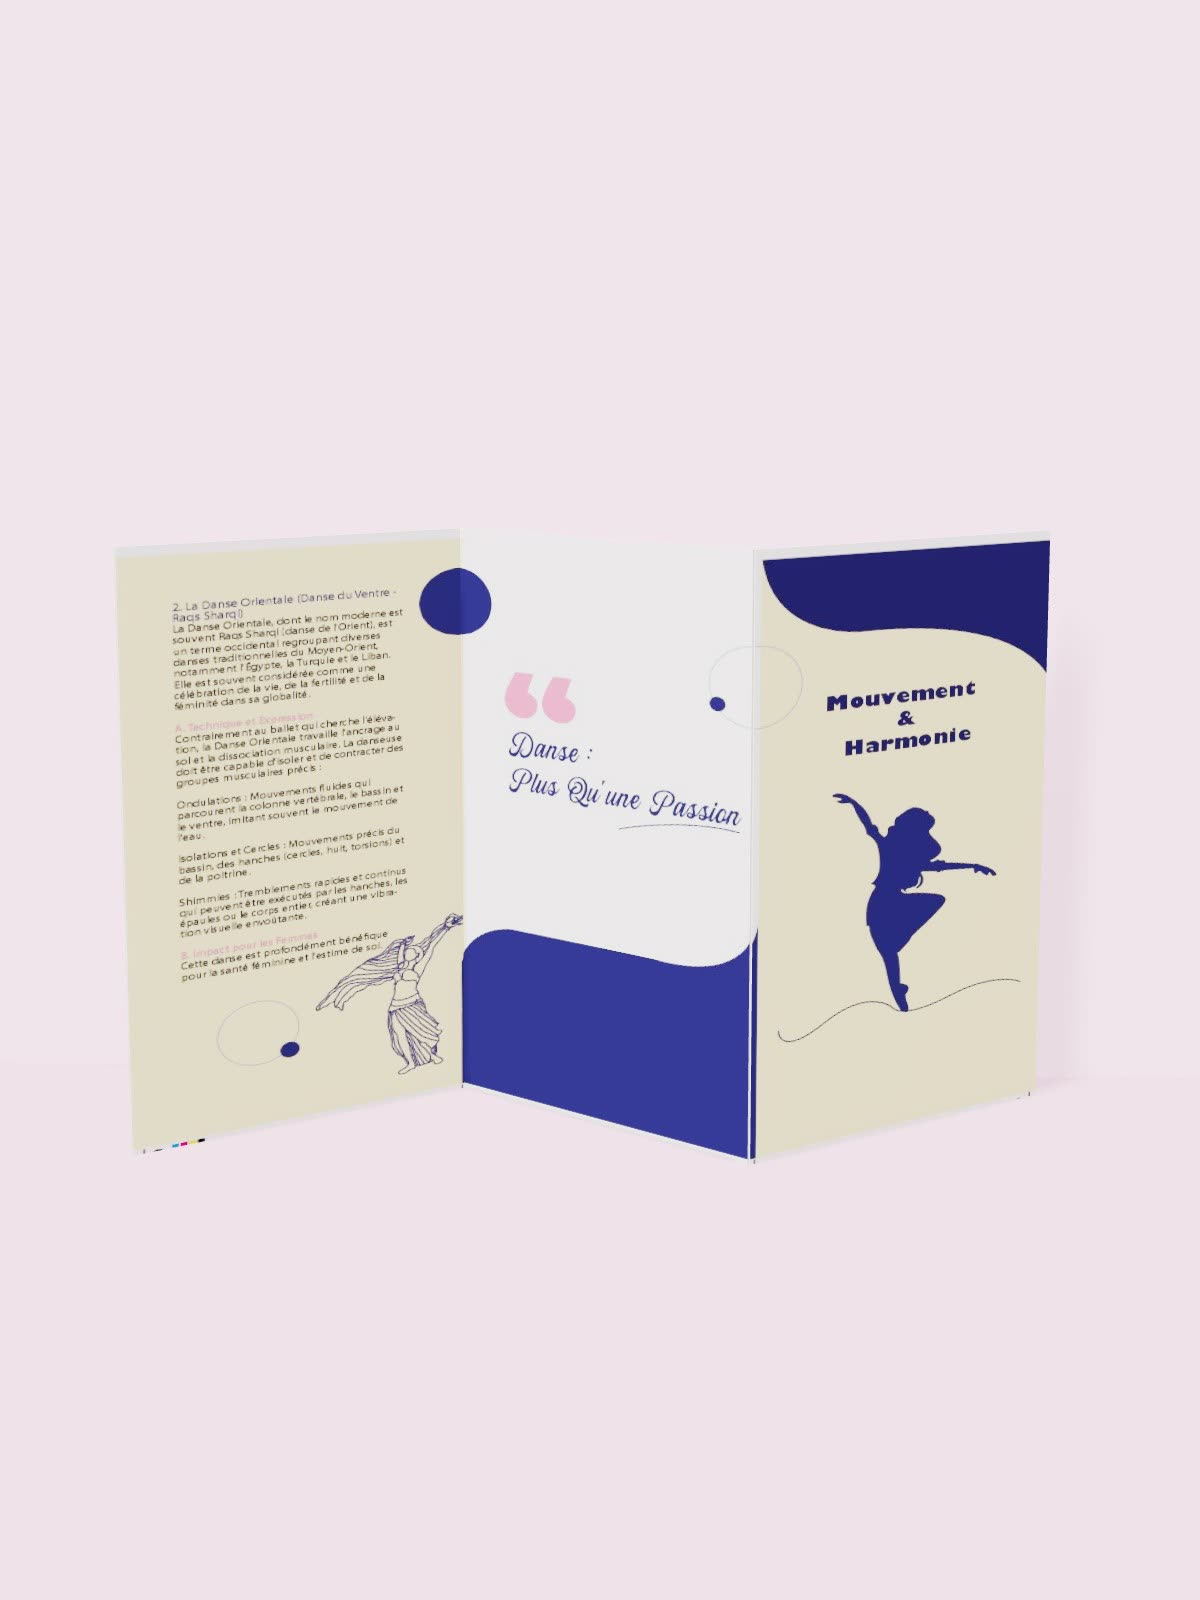
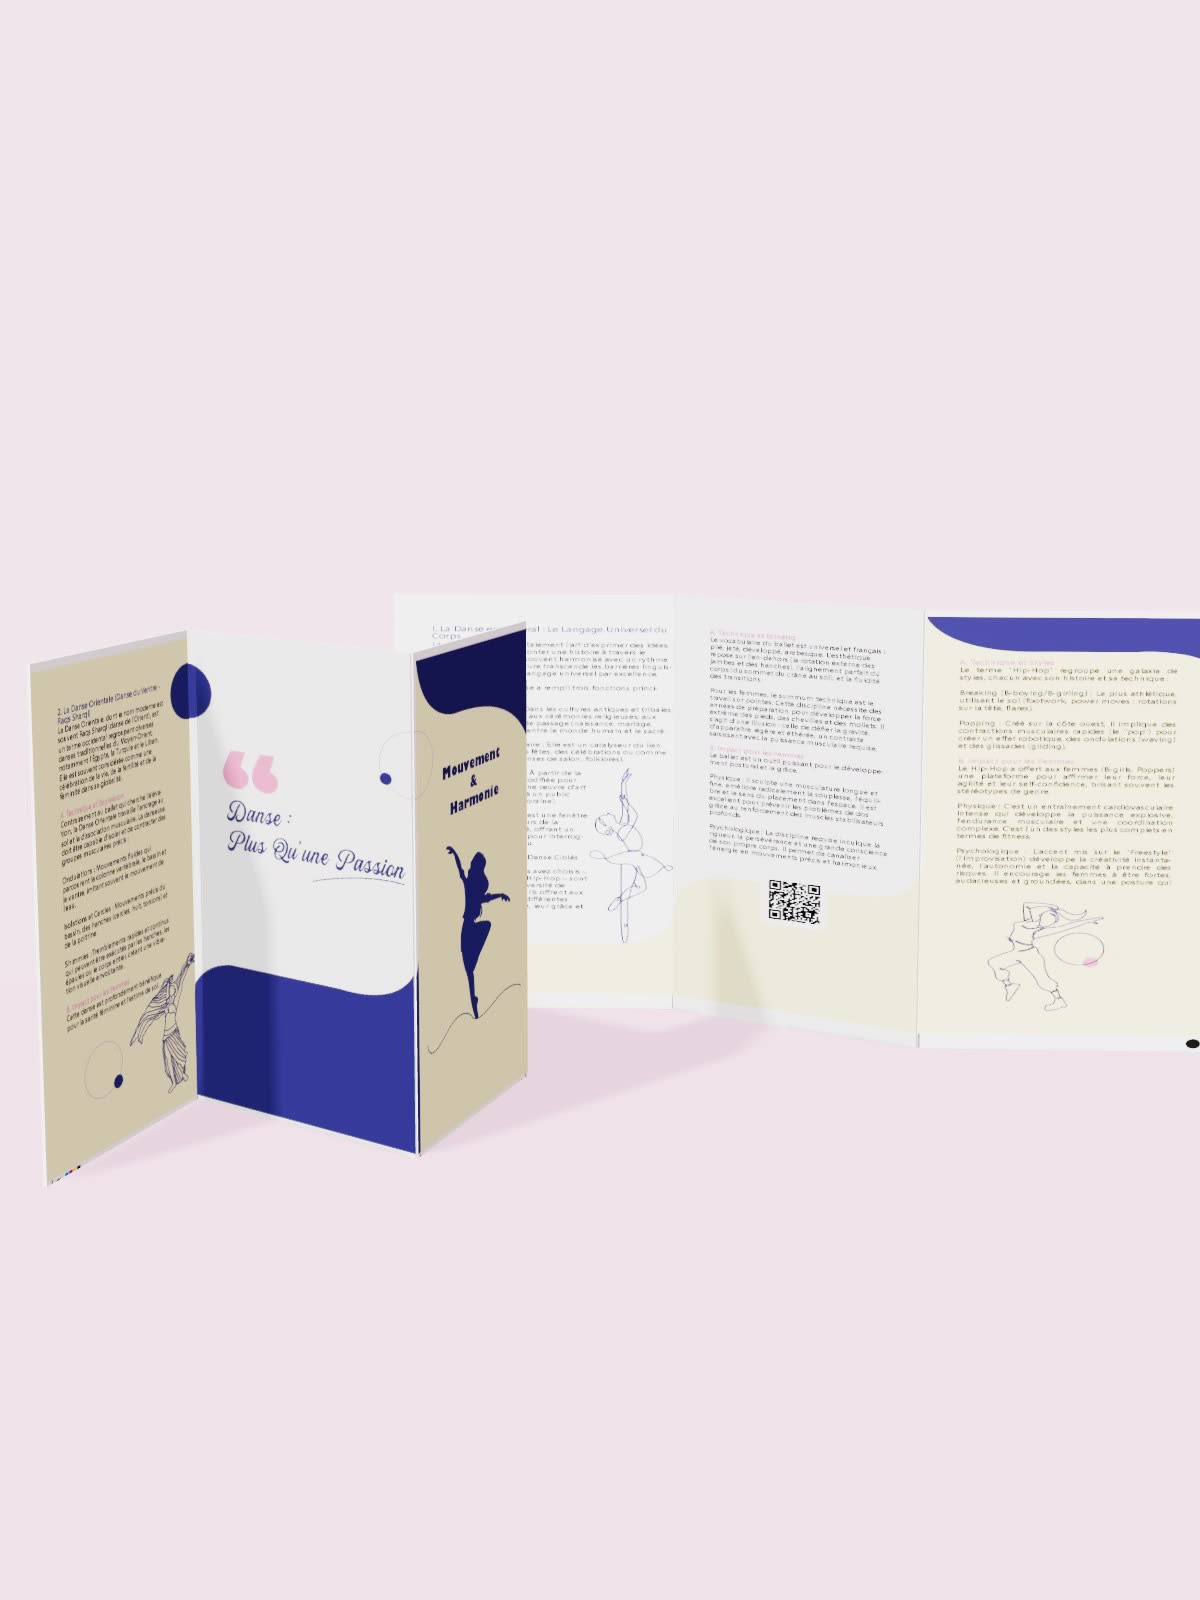
Mockups en situation réelle (JTC, Watania, supérette, carte en main, agence BH, présentoirs) ; dépliant Danse recto et verso ; Vita Boost : interface web

Changed region(s): [[0.0, 0.3125, 1.0, 0.75], [0.9867, 0.625, 1.0, 0.6562]]

diff --git a/js/projects.js b/js/projects.js
@@ -29,8 +29,8 @@ const tous = [
     titre: 'بسيسة — Rapporte la bouteille',
     categorie: 'Affiche de sensibilisation',
     annee: '',
-    image: 'images/projets/mockup-bsisa-affiche.jpg',
-    galerie: ['images/projets/bsisa-affiche.jpg'],
+    image: 'images/projets/reel-bsisa.jpg',
+    galerie: ['images/projets/mockup-bsisa-affiche.jpg', 'images/projets/bsisa-affiche.jpg'],
     contexte: 'Affiche de sensibilisation pour la marque de boisson بسيسة (Bsisa), mise en situation dans une supérette.',
     objectif: 'Inciter à rapporter la bouteille en verre après consommation : « شربت ؟ رجع الدبوزة — الوعي يبدا منك! » (Tu as bu ? Rapporte la bouteille, la prise de conscience commence par toi !).',
     outils: ['Photoshop', 'Illustrator'],
@@ -59,8 +59,8 @@ const tous = [
     titre: 'Journées Théâtrales de Carthage',
     categorie: 'Affiche culturelle',
     annee: '',
-    image: 'images/projets/mockup-jtc.jpg',
-    galerie: ['images/projets/journees-theatrales-carthage.jpg', 'images/projets/jtc-exposition.jpg'],
+    image: 'images/projets/reel-jtc.jpg',
+    galerie: ['images/projets/mockup-jtc.jpg', 'images/projets/journees-theatrales-carthage.jpg', 'images/projets/jtc-exposition.jpg'],
     contexte: 'Affiche pour les Journées Théâtrales de Carthage (JTC), exposée avec les travaux des étudiants de l’ESSTED.',
     objectif: 'Évoquer le théâtre par deux profils face à face, dessinés en lignes ondulantes rouges et crème.',
     outils: ['Illustrator'],
@@ -69,28 +69,28 @@ const tous = [
     titre: 'حياة ثانية — Titre de documentaire',
     categorie: 'Habillage audiovisuel',
     annee: '2026',
-    image: 'images/projets/mockup-hayat-thania.jpg',
-    galerie: ['images/projets/hayat-thania.jpg'],
+    image: 'images/projets/reel-watania.jpg',
+    galerie: ['images/projets/mockup-hayat-thania.jpg', 'images/projets/hayat-thania.jpg'],
     contexte: 'Titre pour un documentaire de la Télévision Tunisienne (Al Watania), réalisé pendant le stage en montage.',
     objectif: '« Ḥayāt thāniya » (Une seconde vie) : un titre calligraphié en relief, éclairé par l’ombre des barreaux, qui évoque l’enfermement et l’espoir.',
     outils: ['Photoshop'],
   },
   {
-    titre: 'Vita Boost — Bannière web',
-    categorie: 'Web & infographie',
+    titre: 'Vita Boost — Interface web',
+    categorie: 'Web design · Interface',
     annee: '',
     image: 'images/projets/mockup-vita-boost.jpg',
     galerie: ['images/projets/vita-boost.jpg'],
-    contexte: 'Projet d’infographie (DS2) : bannière d’accueil d’un site pour une boisson énergisante naturelle.',
-    objectif: 'Mettre en avant la canette « Lemon Mint » au centre, avec un message clair (« Énergie naturelle, boost garanti ! ») et des arguments forts : 100 % bio, 0 sucre ajouté.',
+    contexte: 'Projet d’infographie (DS2) : interface d’un site web pour une boisson énergisante naturelle.',
+    objectif: 'Concevoir la page d’accueil du site : la canette « Lemon Mint » au centre, un menu clair, un appel à l’action et un message fort (« Énergie naturelle, boost garanti ! ») et des arguments forts : 100 % bio, 0 sucre ajouté.',
     outils: ['Photoshop', 'Illustrator'],
   },
   {
     titre: 'Dépliant VISĀVI — Accordéon 6 volets',
     categorie: 'Édition & impression',
     annee: '2025',
-    image: 'images/projets/mockup-depliant-visavi.jpg',
-    galerie: ['images/projets/depliant-visavi.jpg', 'images/projets/depliant-visavi-decoupe.jpg', 'images/projets/depliant-visavi-vernis.jpg'],
+    image: 'images/projets/reel-depliants.jpg',
+    galerie: ['images/projets/mockup-depliant-visavi.jpg', 'images/projets/depliant-visavi.jpg', 'images/projets/depliant-visavi-decoupe.jpg', 'images/projets/depliant-visavi-vernis.jpg'],
     contexte: 'Jury Techniques d’impression (PG2, ESSTED) : dépliant accordéon pour un centre de bien-être et de médecine préventive.',
     objectif: 'Format fini fermé 99 × 210 mm, ouvert 596 × 210 mm, recto verso quadrichromie sur couché brillant 200 g, avec forme de découpe et vernis sélectif recto et verso.',
     outils: ['InDesign', 'Illustrator'],
@@ -100,7 +100,7 @@ const tous = [
     categorie: 'Édition & impression',
     annee: '2025',
     image: 'images/projets/mockup-depliant-danse.jpg',
-    galerie: ['images/projets/depliant-danse.jpg', 'images/projets/depliant-danse-cmjn.jpg'],
+    galerie: ['images/projets/reel-depliants.jpg', 'images/projets/depliant-danse.jpg', 'images/projets/depliant-danse-cmjn.jpg'],
     contexte: 'Jury Techniques d’impression (PG2, ESSTED) : dépliant roulé 3 volets sur la danse (classique, orientale, hip-hop).',
     objectif: 'Format fini fermé 100 × 210 mm, ouvert 298 × 210 mm, recto verso quadrichromie sur couché brillant 170 g, avec simulation de la séparation des couches CMJN.',
     outils: ['InDesign', 'Illustrator'],
@@ -119,8 +119,8 @@ const tous = [
     titre: 'Carte de visite BH Bank',
     categorie: 'Impression',
     annee: '2025',
-    image: 'images/projets/mockup-carte-visite.jpg',
-    galerie: ['images/projets/carte-visite-bh-bank.jpg', 'images/projets/cmjn-separation-nbc.jpg'],
+    image: 'images/projets/reel-carte-main.jpg',
+    galerie: ['images/projets/reel-carte-agence.jpg', 'images/projets/mockup-carte-visite.jpg', 'images/projets/carte-visite-bh-bank.jpg', 'images/projets/cmjn-separation-nbc.jpg'],
     contexte: 'Jury Techniques d’impression (PG2, ESSTED) : conception et imposition d’une carte de visite, et exercice de séparation des couleurs.',
     objectif: 'Format fini 85 × 55 mm, recto verso quadrichromie sur couché mat 350 g, imposée sur une feuille 200 × 275 mm avec repères et gammes de contrôle.',
     outils: ['Illustrator', 'InDesign'],
